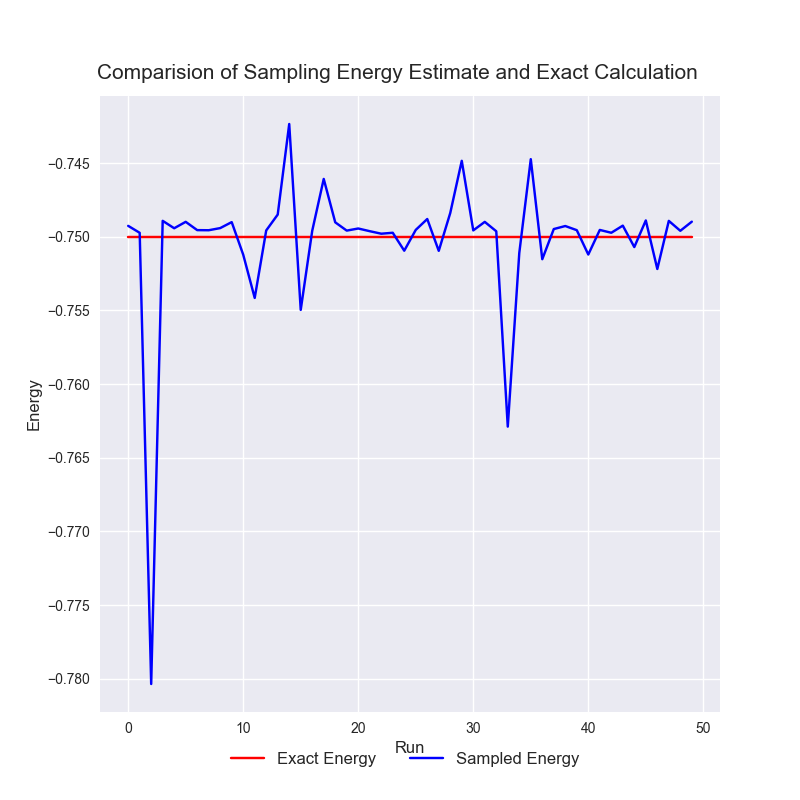
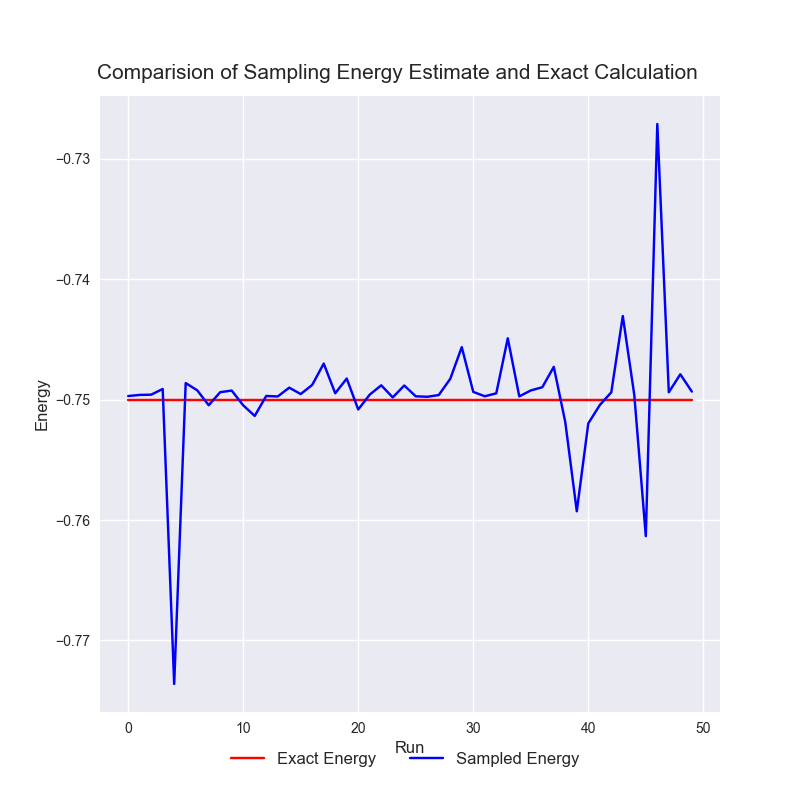
Issue with Sampling for Random RBM
Graphs depicting these issues

diff --git a/GroundStateNetKetSampling.py b/GroundStateNetKetSampling.py
@@ -310,19 +310,21 @@ op = nk.optimizer.Sgd(learning_rate=0.05)
 # Create Basis and Hamiltionian
 basis = basisCreation(N)
 H = hamiltonian(N, B, A)
-
-# RBM Parameters for the ground state
+# par = ranRBMpar(N, M)
+# print('par: ', par)
+# # RBM Parameters for the ground state
 par = [ 6.69376929e-01, 7.28789896e-01, 1.37465157e-03, -8.00709960e-02,
   2.03412813e+00, -2.03629535e+00, -3.31559288e-01,  4.16797633e-01,
   5.85959883e-01,  5.36988405e-01, -1.56979953e+00,  7.01433662e-02,
   1.11482147e+00, -1.11657539e+00, -6.79137466e-01, -6.91849655e-01]
 # Change to a,b,w
-parC = np.vectorize(complex)(par[:8], par[8:])
+num = N+M+N*M
+parC = np.vectorize(complex)(par[:num], par[num:])
 a = parC[:N]
 b = parC[N:N + M]
 w = parC[N + M:].reshape(M, N)
 rbmOrderedDict = OrderedDict([('a',a),('b',b),('w',w)])
-
+print('Saved Paramters: ', rbmOrderedDict)
 # Save parameters so they can be loaded into the netket machine
 with open("Data/07-10-20/paramsGS.json", "wb") as output:
     dump(rbmOrderedDict, output)
@@ -350,7 +352,10 @@ vector = configState(sam, basis)
 print('Sample Vector: ', vector)
 mhEnergySum = energy(par, N, M, H, basis, vector)
 print('Sampled Energy SUM : ', mhEnergySum)
-
+exactEnergyShort = "%.4f" % exactEnergy
+mhEnergyReal = "%.4f" % np.real(mhEnergySum)
+mhEnergyIm = "%.4f" % np.imag(mhEnergySum)
+engString = 'Exact Energy: '+ str(exactEnergyShort)+ '    Estimated Energy: ' + str(mhEnergyReal)+'+'+str(mhEnergyIm)+"i"
 
 uu=0
 du=0
@@ -378,35 +383,35 @@ for j in range(len(sam)):
 print('uu,ud,du,dd: ', uu,ud,du,dd)
 samList = [uu,ud,du,dd]
 names = [r'$ \uparrow\uparrow $',r'$\uparrow\downarrow$',r'$\downarrow\uparrow$',r'$\downarrow\downarrow$']
+#
+plt.figure(figsize=(8,8))
+ttl = plt.suptitle("Comparison of Sampling Results and Expected Distribution",size =15)
+gs = gridspec.GridSpec(ncols=1, nrows=1, hspace = 0.4)
+ttl.set_position([.5, 0.92])
 
-# plt.figure(figsize=(8,8))
-# ttl = plt.suptitle("Comparison of Sampling Results and Expected Distribution",size =15)
-# gs = gridspec.GridSpec(ncols=1, nrows=1, hspace = 0.4)
-# ttl.set_position([.5, 0.92])
+ax2 = plt.subplot(gs[0, :])
+ax2.bar([-0.25,0.75, 1.75, 2.75],samList, color = 'red', width=0.5)
+ax2.set_xlabel("$\sigma$",size = 12)
+ax2.set_ylabel("Number of Samples",size = 12, color='r')
+ax2.set_xticks([0,1, 2, 3])
+ax2.set_xlim(-0.5,3.5)
+ax2.set_xticklabels(names)
+ax2.tick_params(axis='y', labelcolor='r')
+
+
+ax3 = ax2.twinx()
+ax3.bar([0.25,1.25, 2.25, 3.25],rbmNorm, color = 'blue', width=0.5)
+ax3.set_ylabel("$|\Psi(\sigma)|^2$",size = 12, color='b')
+ax3.tick_params(axis='y', labelcolor='b')
+ax3.text(-0.5, -0.08, engString, fontsize=12)
+plt.show()
 #
-# ax2 = plt.subplot(gs[0, :])
-# ax2.bar([-0.75,0.75, 1.75, 2.75],samList, color = 'red', width=0.5)
-# ax2.set_xlabel("$\sigma$",size = 12)
-# ax2.set_ylabel("Number of Samples",size = 12, color='r')
-# ax2.set_xticks([0,1, 2, 3])
-# ax2.set_xlim(-0.5,3.5)
-# ax2.set_xticklabels(names)
-# ax2.tick_params(axis='y', labelcolor='r')
-#
-#
-# ax3 = ax2.twinx()
-# ax3.bar([0.25,1.25, 2.25, 3.25],rbmNorm, color = 'blue', width=0.5)
-# ax3.set_ylabel("$|\Psi(\sigma)|^2$",size = 12, color='b')
-# ax3.tick_params(axis='y', labelcolor='b')
-#
-# plt.show()
-#
-# Many Runs
+# # Many Runs
 hisInt=np.arange(50)
 ee=[]
 mh=[]
+
 for j in range(len(hisInt)):
-    #par = ranRBMpar(N, M)
     exactEnergy = varEnergy(par, N, M, H, basis)
     # Create Samples
     sam = samplingNetKet(1000, sa)
